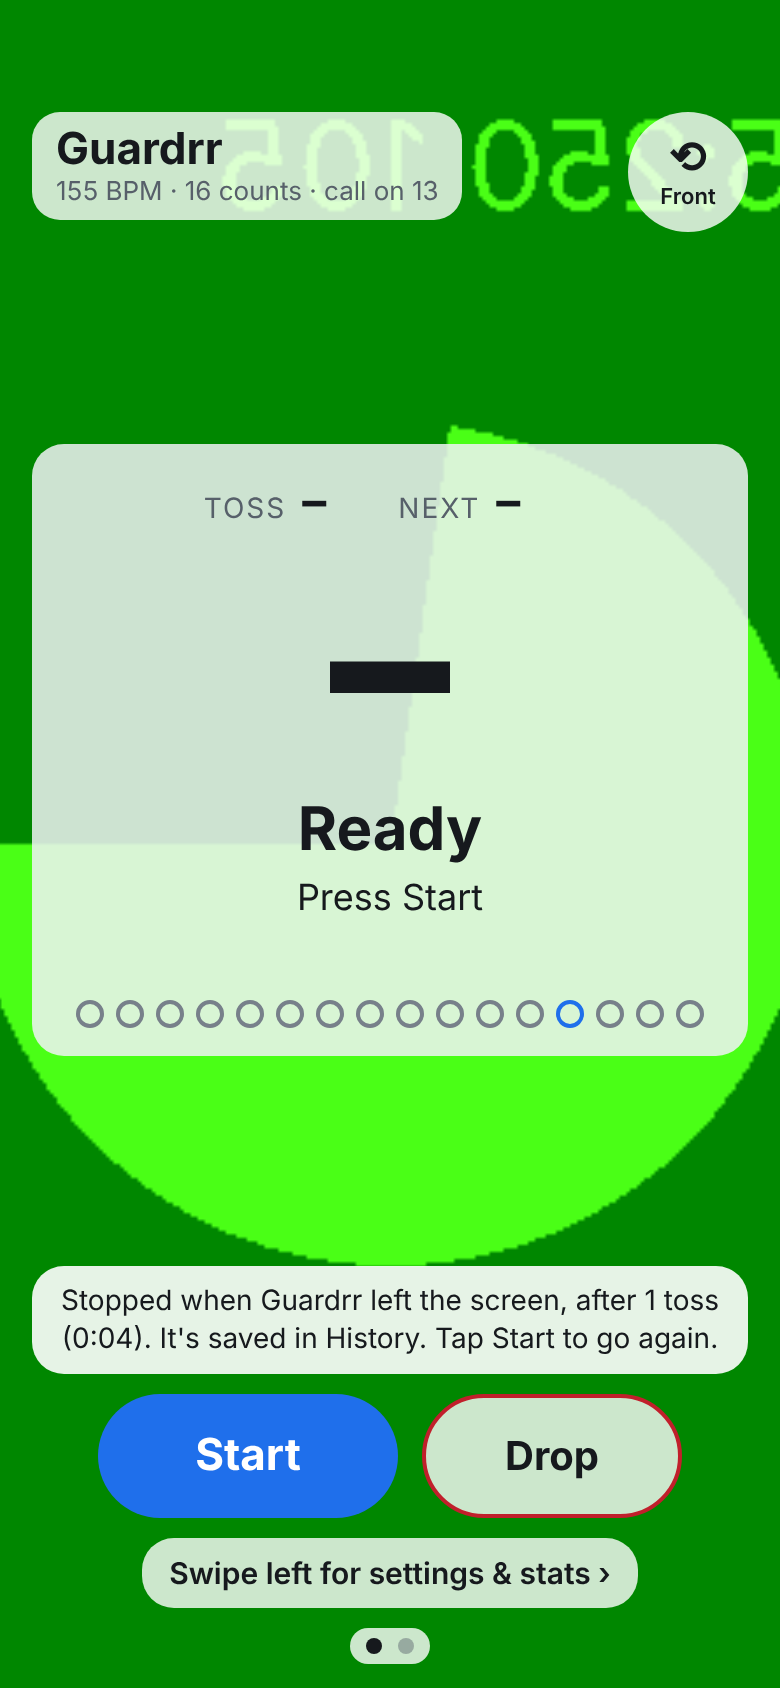
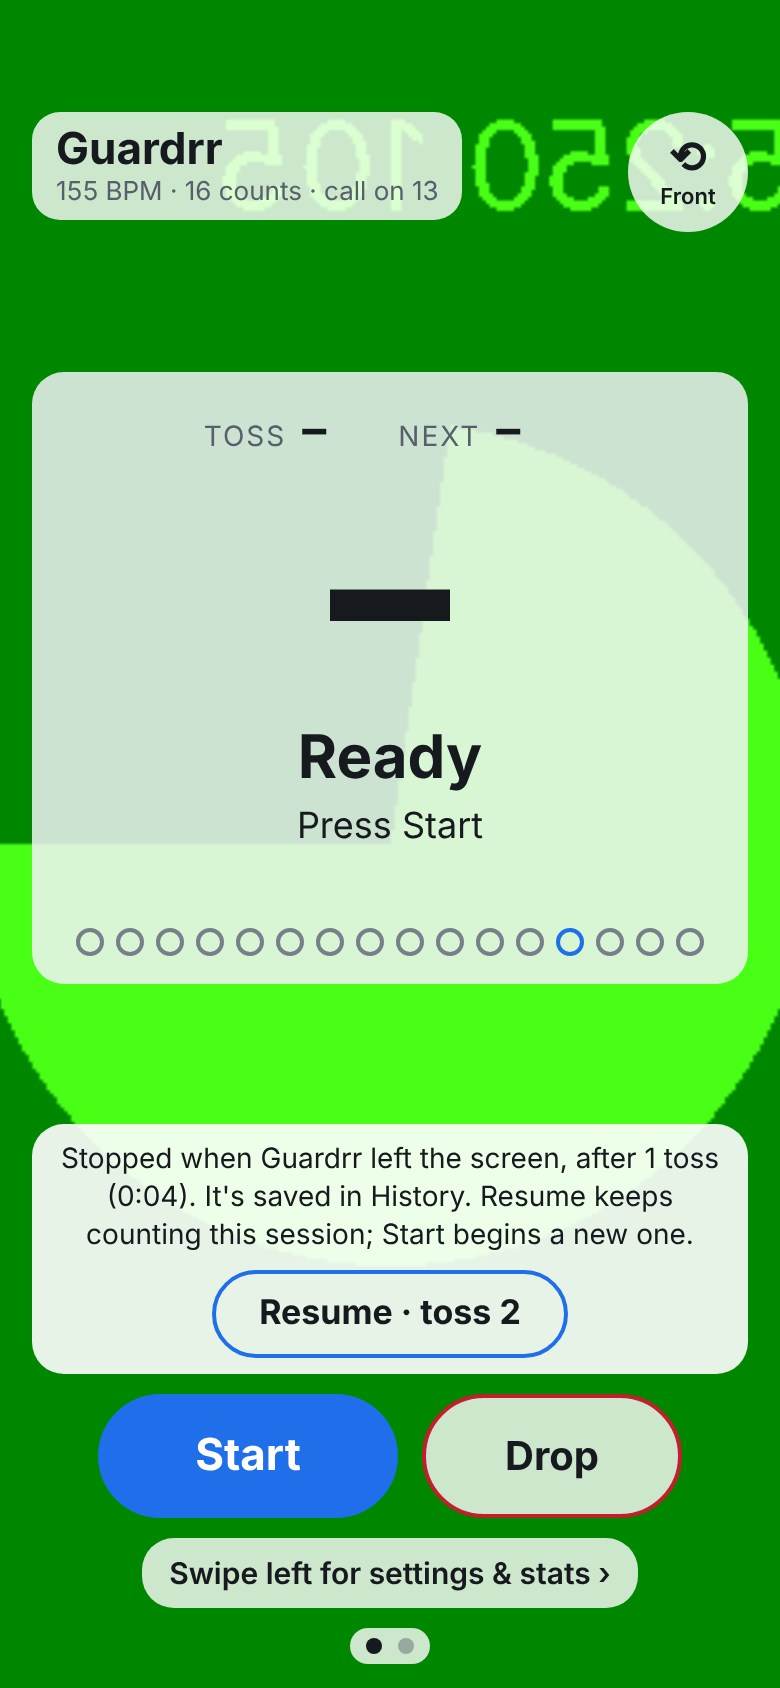
feat: Resume after leaving the screen keeps counting the same session
When the lock button or an app switch stopped practice, the practice page
now offers "Resume · toss 8" for 30 minutes: a fresh count-in, then the
same session carries on (one History entry, tosses and drops kept, the
time away not counted). Start still begins a new session. Smoke test and
the left-the-screen screenshot cover it.

Claude-Session: https://claude.ai/code/session_01UV53BFu83ccpUNq1dx9jTY

Changed region(s): [[0.0308, 0.3389, 0.9846, 0.8009], [0.0308, 0.2156, 0.9846, 0.3081]]

diff --git a/App.tsx b/App.tsx
@@ -34,14 +34,17 @@ import {
   PageIndex,
   PracticePreset,
   SessionContext,
+  StatsSummary,
   TossSettings,
   VOICE_TEST_PHRASE,
   applyPreset,
+  canResume,
   dropButtonText,
   interruptedNote,
   otherPage,
   pageFromOffset,
   practiceDisplay,
+  practiceResumedAnnouncement,
   practiceStartedAnnouncement,
   practiceStoppedAnnouncement,
   presetForToss,
@@ -125,8 +128,18 @@ export default function App() {
     updatePreset,
     movePreset,
   } = useCustomPresets();
-  const { running, cue, stats, startedAt, activeSettings, pendingChange, start, stop, toggleDrop } =
-    usePracticeSession(bpm, settings, cueOptions, countIn, voiceRate, voice);
+  const {
+    running,
+    cue,
+    stats,
+    startedAt,
+    activeSettings,
+    pendingChange,
+    start,
+    resume,
+    stop,
+    toggleDrop,
+  } = usePracticeSession(bpm, settings, cueOptions, countIn, voiceRate, voice);
   // Right after a release Drop marks the toss before it (see DROP_GRACE_COUNTS).
   const drop = dropButtonText(stats);
   const {
@@ -166,23 +179,36 @@ export default function App() {
     // Re-save only when the totals change (a late drop), not on every new object.
     // eslint-disable-next-line react-hooks/exhaustive-deps
   }, [running, record?.tosses, record?.drops, saveSession]);
-  // Shown on the practice page after leaving the screen stopped the session.
-  const [interrupted, setInterrupted] = useState<string | null>(null);
+  // Shown on the practice page after leaving the screen stopped the session:
+  // when it stopped (for Resume) and the session's summary at that moment.
+  const [interrupted, setInterrupted] = useState<{
+    atMs: number;
+    summary: StatsSummary;
+  } | null>(null);
+  // Resume is offered for a while after leaving the screen (RESUME_WINDOW_MS);
+  // re-checked each time the app comes back to the screen.
+  const [resumable, setResumable] = useState(false);
   // Timers pause in the background (docs/background-audio.md): stop the
   // session instead of resuming mid-phrase with the time away counted.
-  const onBackground = useRef<(state: string) => void>(() => {});
+  const onAppState = useRef<(state: string) => void>(() => {});
   useEffect(() => {
-    onBackground.current = (state) => {
+    onAppState.current = (state) => {
+      if (state === 'active' && interrupted && !running) {
+        setResumable(canResume(interrupted.atMs, Date.now(), interrupted.summary.tosses));
+      }
       if (!shouldStopForAppState(state, running)) return;
+      const summary = summarizeStats(stats);
+      const atMs = Date.now();
       setStoppedWith(playing);
       stop();
-      setInterrupted(interruptedNote(summarizeStats(stats)));
+      setInterrupted({ atMs, summary });
+      setResumable(canResume(atMs, atMs, summary.tosses));
     };
-  }, [running, playing, stop, stats]);
+  }, [running, playing, stop, stats, interrupted]);
   useEffect(() => {
     const sub = AppState.addEventListener('change', (state) => {
       if (state !== 'active' && latestRecord.current) saveSession(latestRecord.current);
-      onBackground.current(state);
+      onAppState.current(state);
     });
     return () => sub.remove();
   }, [saveSession]);
@@ -190,8 +216,23 @@ export default function App() {
   const onStart = () => {
     setStoppedWith(null);
     setInterrupted(null);
+    setResumable(false);
     start();
     AccessibilityInfo.announceForAccessibility(practiceStartedAnnouncement(bpm, settings));
+  };
+  // Continue the interrupted session (same History entry), with a fresh count-in.
+  const onResume = () => {
+    if (!interrupted || !canResume(interrupted.atMs, Date.now(), interrupted.summary.tosses)) {
+      setResumable(false);
+      return;
+    }
+    setStoppedWith(null);
+    setInterrupted(null);
+    setResumable(false);
+    resume();
+    AccessibilityInfo.announceForAccessibility(
+      practiceResumedAnnouncement(interrupted.summary.tosses),
+    );
   };
   const onStop = () => {
     setStoppedWith(playing);
@@ -268,8 +309,24 @@ export default function App() {
 
             <View style={styles.controls}>
               {interrupted && !running ? (
-                <View style={styles.notePill} testID="interrupted-note">
-                  <Text style={styles.noteText}>{interrupted}</Text>
+                <View style={styles.notePill}>
+                  <Text style={styles.noteText} testID="interrupted-note">
+                    {interruptedNote(interrupted.summary, resumable)}
+                  </Text>
+                  {resumable ? (
+                    <Pressable
+                      testID="resume-practice"
+                      style={({ pressed }) => [styles.resumeButton, pressed && styles.pressed]}
+                      onPress={onResume}
+                      accessibilityRole="button"
+                      accessibilityLabel={`Resume practice at toss ${interrupted.summary.tosses + 1}`}
+                      accessibilityHint="Keeps counting this session, after a fresh count-in"
+                    >
+                      <Text style={styles.resumeText}>
+                        Resume · toss {interrupted.summary.tosses + 1}
+                      </Text>
+                    </Pressable>
+                  ) : null}
                 </View>
               ) : null}
               <View style={styles.buttonRow}>
@@ -456,6 +513,16 @@ const getStyles = themed((t: Theme) =>
       backgroundColor: t.background + 'E6',
     },
     noteText: { fontSize: 14, lineHeight: 19, color: t.text, textAlign: 'center' },
+    resumeButton: {
+      alignSelf: 'center',
+      marginTop: 8,
+      paddingVertical: 10,
+      paddingHorizontal: 22,
+      borderRadius: 22,
+      borderWidth: 2,
+      borderColor: t.primary,
+    },
+    resumeText: { fontSize: 17, fontWeight: '700', color: t.text },
     dots: { position: 'absolute', left: 0, right: 0, bottom: 12, alignItems: 'center' },
     buttonRow: { flexDirection: 'row', gap: 12, justifyContent: 'center' },
     startButton: {

diff --git a/src/practice/usePracticeSession.ts b/src/practice/usePracticeSession.ts
@@ -9,6 +9,7 @@ import {
   SessionStats,
   TossSettings,
   recordCue,
+  resumeStats,
   toggleDrop,
 } from '../engine';
 import { createHapticPlayer, useKeepAwakeWhile } from '../feedback';
@@ -27,6 +28,12 @@ export interface PracticeSessionState {
   /** Settings changed while practicing that wait for their phrase, or null. */
   pendingChange: PendingSettingsChange | null;
   start(): void;
+  /**
+   * Start a new run that continues the last session's stats (same start
+   * time, tosses, drops; the time stopped isn't counted), with a fresh
+   * count-in. Used after leaving the screen stopped practice.
+   */
+  resume(): void;
   stop(): void;
   /** Mark (or un-mark) the latest toss as dropped; also works after Stop. */
   toggleDrop(): void;
@@ -115,33 +122,43 @@ export function usePracticeSession(
     setPendingChange(null);
   }, []);
 
-  const start = useCallback(() => {
-    if (session.current?.running || !clicks.current) return;
-    setStats(EMPTY_STATS);
-    setStartedAt(Date.now());
-    const s = createPracticeSession({
-      bpm: bpmRef.current,
-      settings,
-      cueOptions,
-      countIn,
-      clicks: clicks.current,
-      voice: createVoice({ rate: voiceRate, voice }),
-      haptics: createHapticPlayer(),
-      onCue: (c) => {
-        // recordCue returns the same object for silent ticks, so this only
-        // re-renders when something was counted.
-        const now = performance.now();
-        setStats((prev) => recordCue(prev, c, now));
-        // Re-render on counts, and on an "and" only when a catch lands there.
-        if (c.subdivision === 0 || c.catch) setCue(c);
-        if (c.subdivision === 0) syncFromSession(s);
-      },
-    });
-    session.current = s;
-    s.start();
-    setRunning(true);
-    syncFromSession(s);
-  }, [settings, cueOptions, countIn, voiceRate, voice, syncFromSession]);
+  const begin = useCallback(
+    (continueSession: boolean) => {
+      if (session.current?.running || !clicks.current) return;
+      if (continueSession) {
+        setStats((prev) => resumeStats(prev));
+        setStartedAt((prev) => prev ?? Date.now());
+      } else {
+        setStats(EMPTY_STATS);
+        setStartedAt(Date.now());
+      }
+      const s = createPracticeSession({
+        bpm: bpmRef.current,
+        settings,
+        cueOptions,
+        countIn,
+        clicks: clicks.current,
+        voice: createVoice({ rate: voiceRate, voice }),
+        haptics: createHapticPlayer(),
+        onCue: (c) => {
+          // recordCue returns the same object for silent ticks, so this only
+          // re-renders when something was counted.
+          const now = performance.now();
+          setStats((prev) => recordCue(prev, c, now));
+          // Re-render on counts, and on an "and" only when a catch lands there.
+          if (c.subdivision === 0 || c.catch) setCue(c);
+          if (c.subdivision === 0) syncFromSession(s);
+        },
+      });
+      session.current = s;
+      s.start();
+      setRunning(true);
+      syncFromSession(s);
+    },
+    [settings, cueOptions, countIn, voiceRate, voice, syncFromSession],
+  );
+  const start = useCallback(() => begin(false), [begin]);
+  const resume = useCallback(() => begin(true), [begin]);
 
   const toggleLatestDrop = useCallback(() => setStats((prev) => toggleDrop(prev)), []);
 
@@ -153,6 +170,7 @@ export function usePracticeSession(
     activeSettings: running ? activeSettings : settings,
     pendingChange,
     start,
+    resume,
     stop,
     toggleDrop: toggleLatestDrop,
   };

diff --git a/e2e/smoke.js b/e2e/smoke.js
@@ -928,6 +928,45 @@ async function main() {
       `"${awayNoteText}"`,
     );
     await awayPage.screenshot({ path: path.join(outDir, 'left-the-screen.png'), fullPage: true });
+    const resumeButton = awayPage.getByTestId('resume-practice');
+    check(
+      'coming back offers Resume at the next toss',
+      (await resumeButton.isVisible()) &&
+        (await resumeButton.textContent()) === 'Resume · toss 2' &&
+        /Resume keeps counting this session; Start begins a new one\.$/.test(awayNoteText ?? ''),
+      `"${(await resumeButton.count()) ? await resumeButton.textContent() : 'no Resume'}"`,
+    );
+    // Resume: a fresh count-in, then toss 2 of the same session.
+    const resumedFrom = (await awayPage.evaluate(() => window.__plays)).length;
+    await resumeButton.click();
+    check('Resume clears the note', (await awayNote.count()) === 0);
+    await awayPage.waitForTimeout((COUNT_IN + 2.5) * MS_PER_COUNT);
+    const resumedCounts = (await awayPage.evaluate(() => window.__plays))
+      .slice(resumedFrom)
+      .filter((p) => p.kind !== 'and');
+    const resumedAccent = resumedCounts.findIndex((p) => p.kind === 'accent');
+    check(
+      'Resume plays a fresh count-in before the next release',
+      resumedAccent === COUNT_IN,
+      `first accent at click ${resumedAccent + 1}`,
+    );
+    await awayPage.getByRole('button', { name: 'Stop practice' }).click();
+    await awayPage.getByTestId('go-to-settings').click();
+    const awayTotals = awayPage.getByLabel(/^\d+ sessions?, \d+ toss(es)?/);
+    const awayTotalsText = (await awayTotals.count())
+      ? await awayTotals.first().getAttribute('aria-label')
+      : null;
+    check(
+      'a resumed session stays one History entry (1 session, 2 tosses)',
+      /^1 session, 2 tosses/.test(awayTotalsText ?? ''),
+      `"${awayTotalsText}"`,
+    );
+    await awayPage.getByTestId('go-to-practice').click();
+    // Leaving again, then Start: a new session, and the note goes away.
+    await awayPage.getByRole('button', { name: 'Start practice' }).click();
+    await awayPage.waitForTimeout((COUNT_IN + 2.5) * MS_PER_COUNT);
+    await setVisibility('hidden');
+    await setVisibility('visible');
     await awayPage.getByRole('button', { name: 'Start practice' }).click();
     check('Start clears the note', (await awayNote.count()) === 0);
     await awayPage.getByRole('button', { name: 'Stop practice' }).click();

diff --git a/src/engine/__tests__/accessibility.test.ts b/src/engine/__tests__/accessibility.test.ts
@@ -1,5 +1,6 @@
 import {
   displayAccessibilityLabel,
+  practiceResumedAnnouncement,
   practiceStartedAnnouncement,
   practiceStoppedAnnouncement,
   spokenCallLabel,
@@ -133,5 +134,15 @@ describe('practice announcements', () => {
     expect(practiceStoppedAnnouncement(dropped)).toBe(
       'Stopped. 4 tosses, 1 drop, 75% caught, in 1 minute.',
     );
+  });
+});
+
+describe('practiceResumedAnnouncement', () => {
+  it('says which toss comes next and that a count-in comes first', () => {
+    expect(practiceResumedAnnouncement(7)).toBe('Resumed. Toss 8 is next, after the count-in.');
+  });
+
+  it('never says toss 0 or a negative toss', () => {
+    expect(practiceResumedAnnouncement(-3)).toBe('Resumed. Toss 1 is next, after the count-in.');
   });
 });

diff --git a/src/engine/accessibility.ts b/src/engine/accessibility.ts
@@ -72,6 +72,14 @@ export function practiceStartedAnnouncement(bpm: number, settings: TossSettings)
 }
 
 /** Said once when practice stops: how many tosses and how long. */
+/**
+ * Spoken when Resume continues a session after leaving the screen, e.g.
+ * "Resumed. Toss 8 is next, after the count-in."
+ */
+export function practiceResumedAnnouncement(tossesSoFar: number): string {
+  return `Resumed. Toss ${Math.max(0, tossesSoFar) + 1} is next, after the count-in.`;
+}
+
 export function practiceStoppedAnnouncement(summary: StatsSummary): string {
   if (summary.tosses === 0) return 'Stopped before the first toss.';
   const drops =

diff --git a/README.md b/README.md
@@ -111,9 +111,9 @@ practice screen is Chromium's fake camera; on the phone it's you.
 | ------------------------------------------------------------------------------------------------ | ------------------------------------------------------------------------------------------------------------ | ----------------------------------------------------------------------------------------------- | ---------------------------------------------------------------------------------------------------- |
 | ![Call buzz set to "Buzz the number": a 5 is five taps](docs/screenshots/25-buzz-the-number.png) | ![Call buzz set to "Taps in fours": a 7 is four taps, a pause, three](docs/screenshots/26-taps-in-fours.png) | ![Call to feel: 4& picked, the button says "Feel a 4 and"](docs/screenshots/27-feel-a-call.png) | ![Count it as "Ready, and": two words just before the call](docs/screenshots/28-count-off-ready.png) |
 
-| Your own count-off words                                                                                                  | Left the screen                                                                                |
-| ------------------------------------------------------------------------------------------------------------------------- | ---------------------------------------------------------------------------------------------- |
-| ![Count it as "Your words": "hit it" spoken on counts 11–12, then the call](docs/screenshots/29-count-off-your-words.png) | ![Stopped when Guardrr left the screen, after 1 toss](docs/screenshots/30-left-the-screen.png) |
+| Your own count-off words                                                                                                  | Left the screen                                                                                                      |
+| ------------------------------------------------------------------------------------------------------------------------- | -------------------------------------------------------------------------------------------------------------------- |
+| ![Count it as "Your words": "hit it" spoken on counts 11–12, then the call](docs/screenshots/29-count-off-your-words.png) | ![Stopped when Guardrr left the screen, after 1 toss, with Resume · toss 2](docs/screenshots/30-left-the-screen.png) |
 
 ## Tech
 
